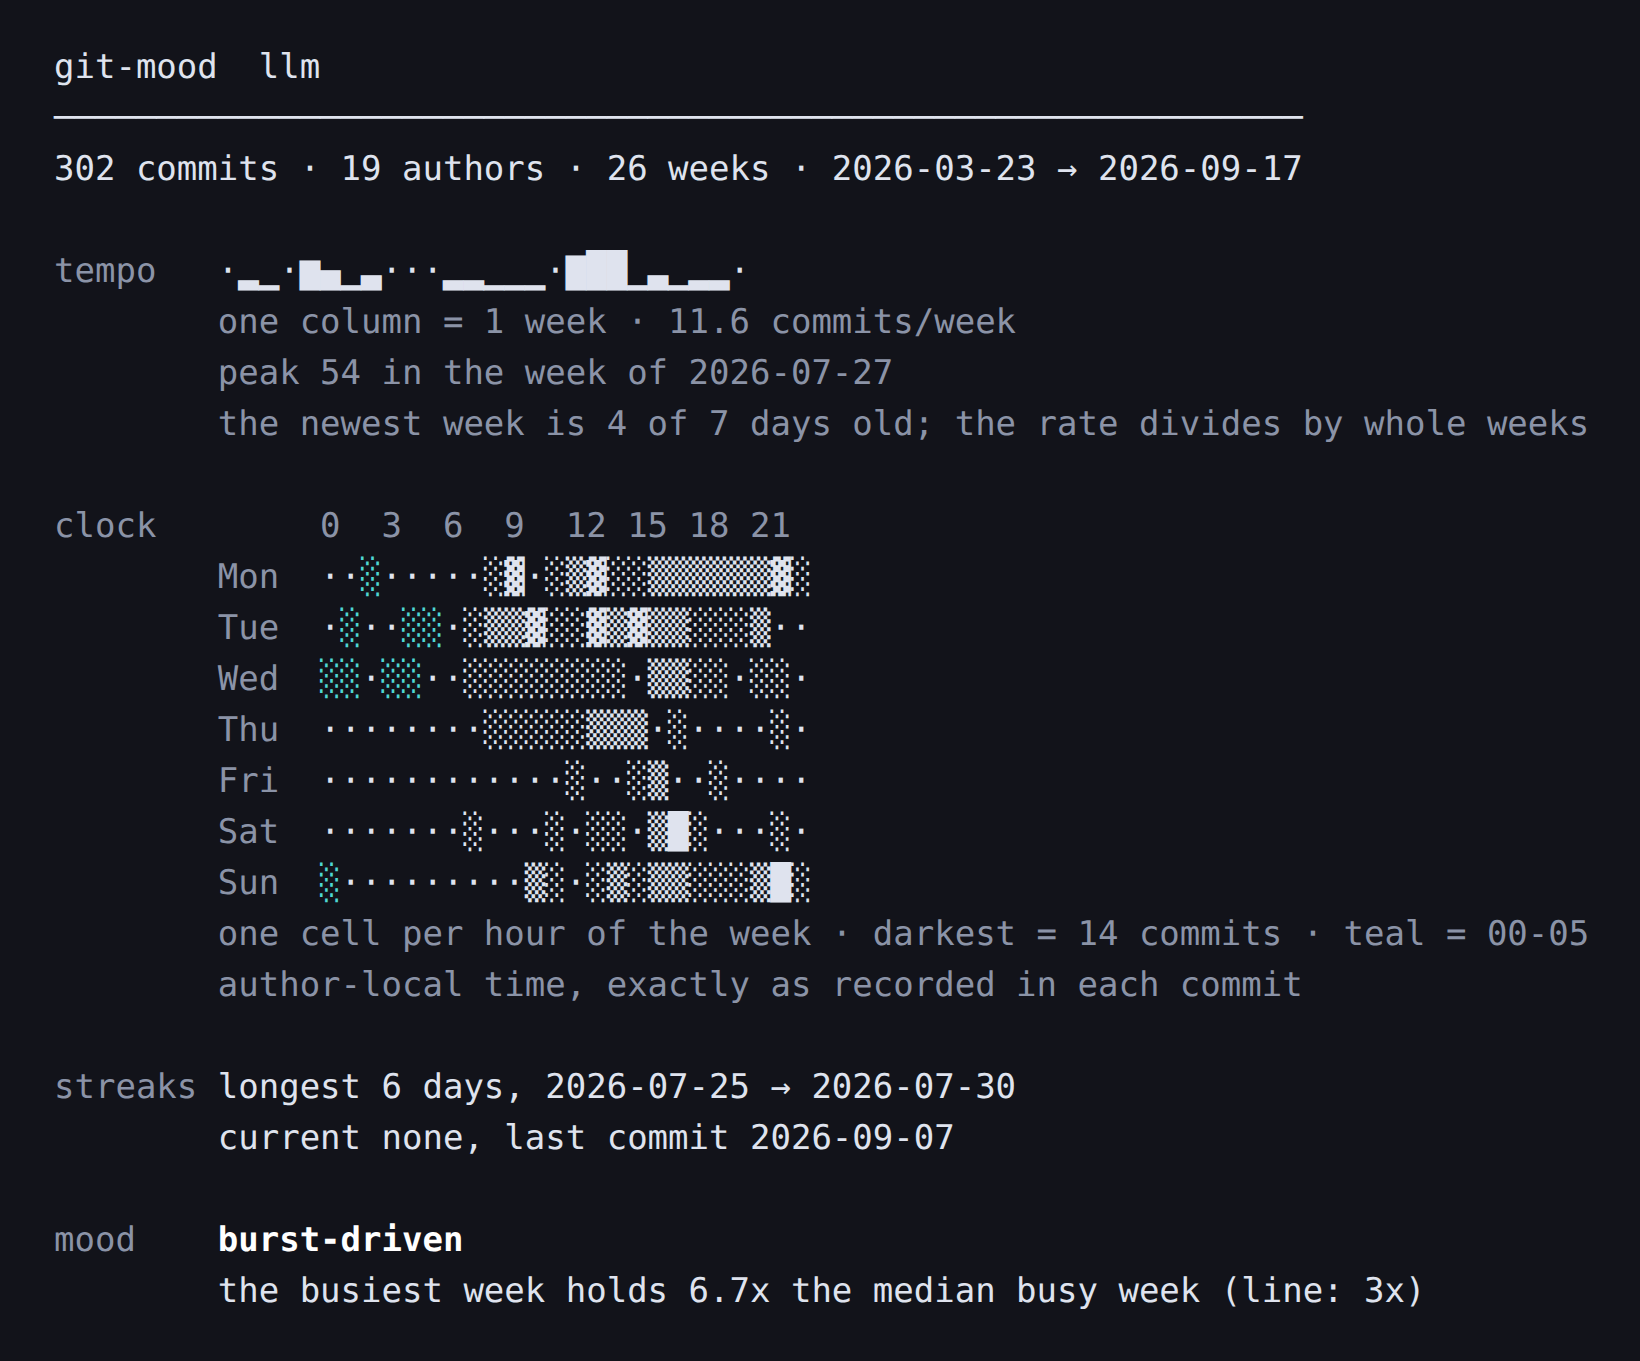
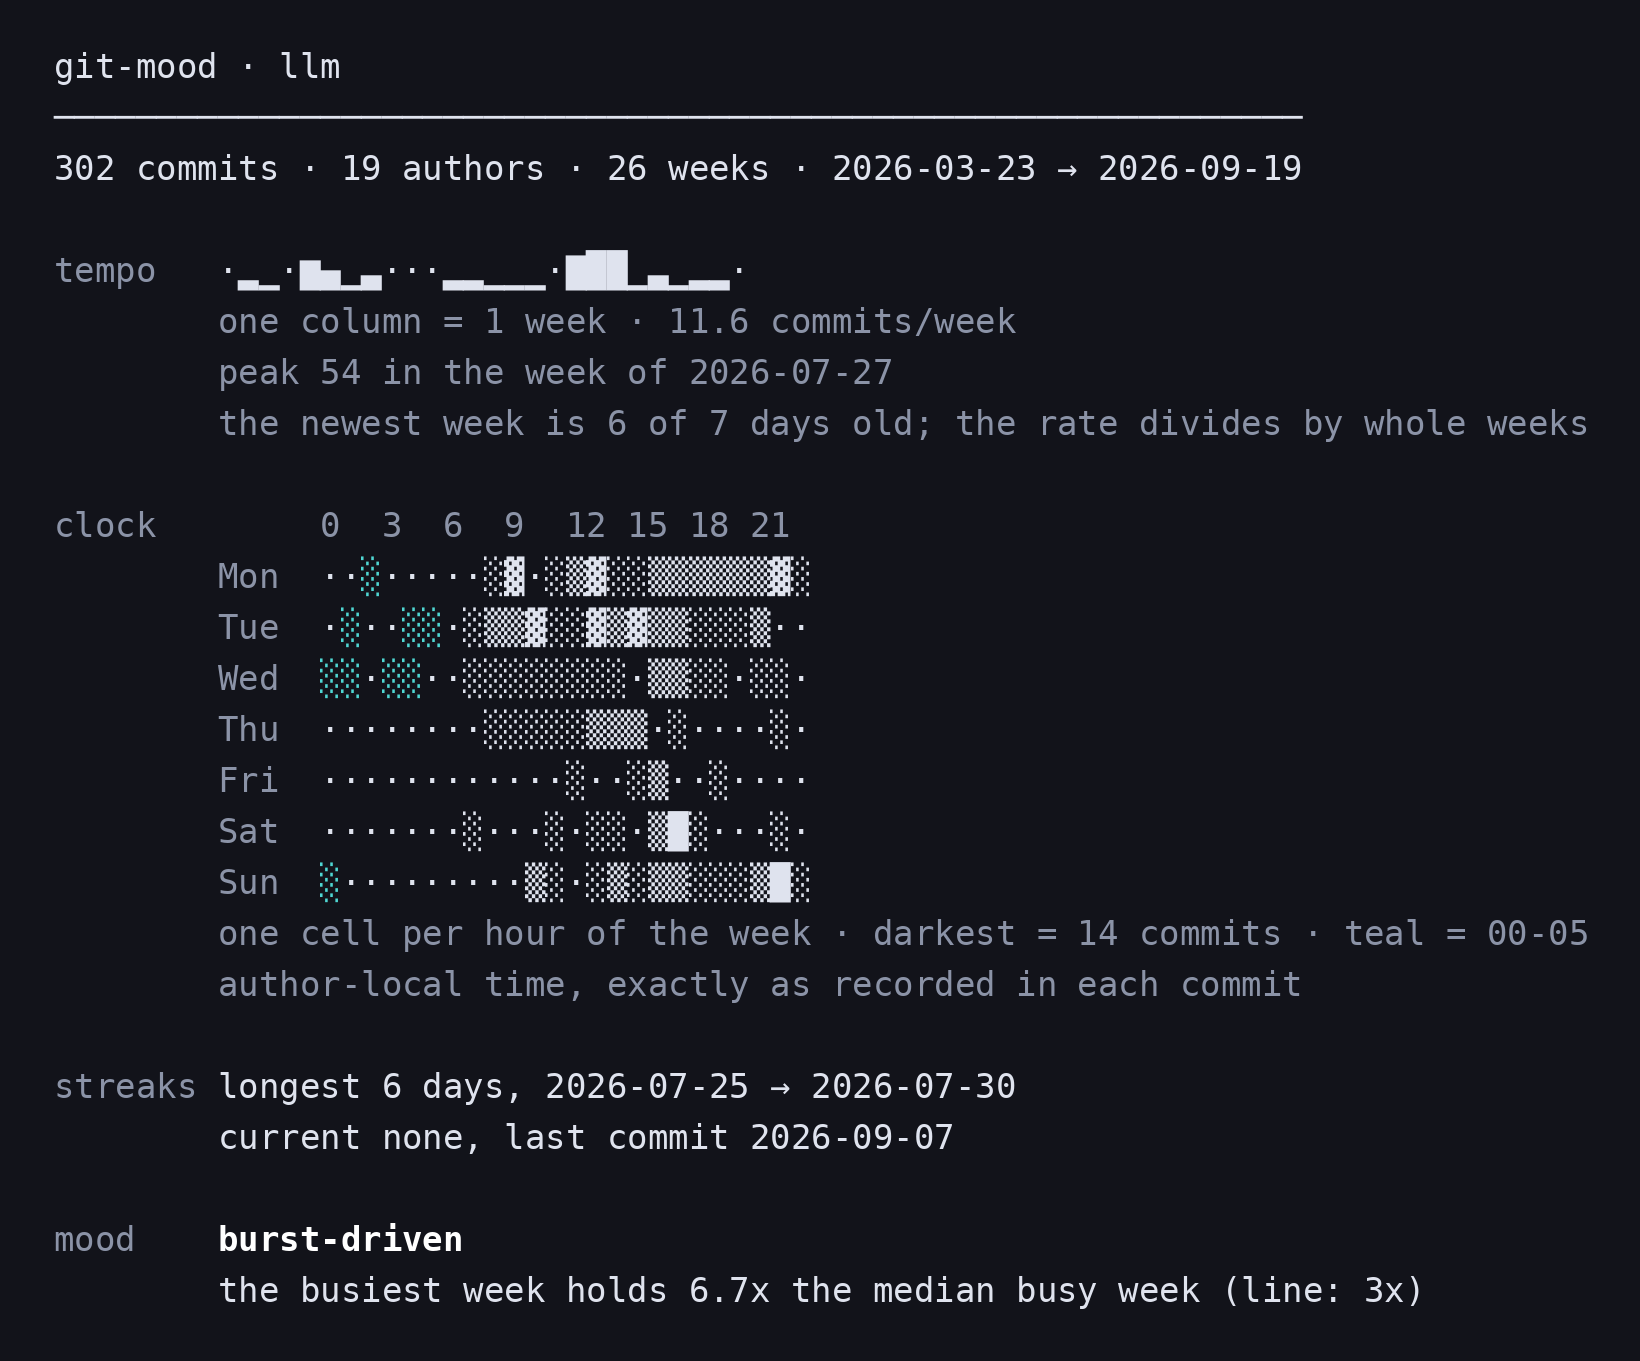
mood: the title joins with the page's own separator, and the shot is re-taken
Every other line on the page joins its parts with g["sep"] - " · ", or
" | " under --ascii. The title was the one place two raw spaces stood in
for that, which read as a gap rather than as a join and gave --ascii
nothing to swap.

The name's budget is 60 less the program name less the separator's
*display width*. Writing that in characters is the 2026-08-22 defect
verbatim - a width counted in codepoints on a value the glyph set
chooses. Measured on a 60-character CJK name: 60 cells with GLYPHS, 60
with ASCII_GLYPHS, 56 under --ascii's escaping.

screenshot.png is re-shot from this build, because README:7 says
"Captured from this build" and the old image shows "git-mood  llm".
Same subject and same procedure as ec9ff36: `git-mood --weeks 26`
against a --filter=blob:none clone of simonw/llm, captured through a pty
so the teal is the real SGR 36, rendered at the metrics of the image it
replaces - DejaVu Sans Mono 34, 51px line pitch, same background,
palette and margins, 1640x1361 as before. The window is the same 302
commits; the dates, the newest-week age and the teal clock key are
today's.

diff --git a/git_mood.py b/git_mood.py
@@ -1333,7 +1333,11 @@ def render_head(name, summary, g):
     if name == PROG:
         title = PROG
     else:
-        title = "%s  %s" % (PROG, fit(name, 60 - len(PROG) - 2))
+        # The separator's cost is cells, not characters: the glyph set
+        # chooses it and --ascii swaps it. PROG is fixed ASCII, so len() is
+        # the same number there.
+        room = 60 - len(PROG) - display_width(g["sep"])
+        title = "%s%s%s" % (PROG, g["sep"], fit(name, room))
     lines = [title, g["rule"] * max(60, display_width(summary))]
     return lines + [summary] if summary else lines
 
